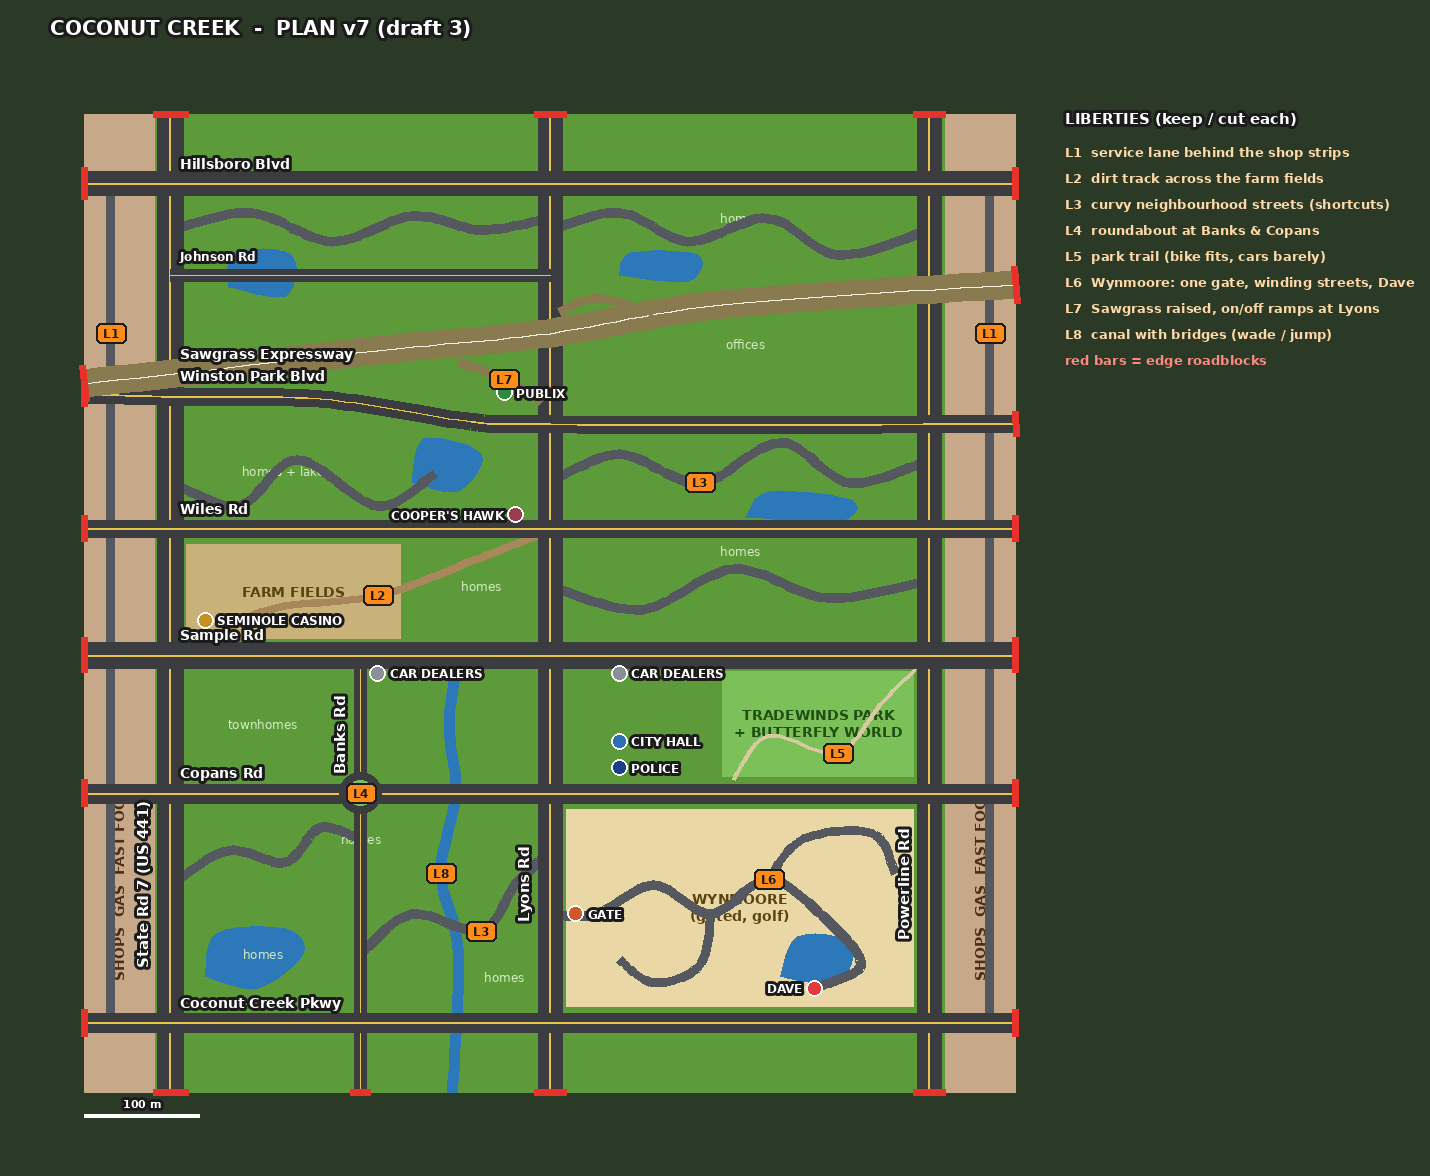
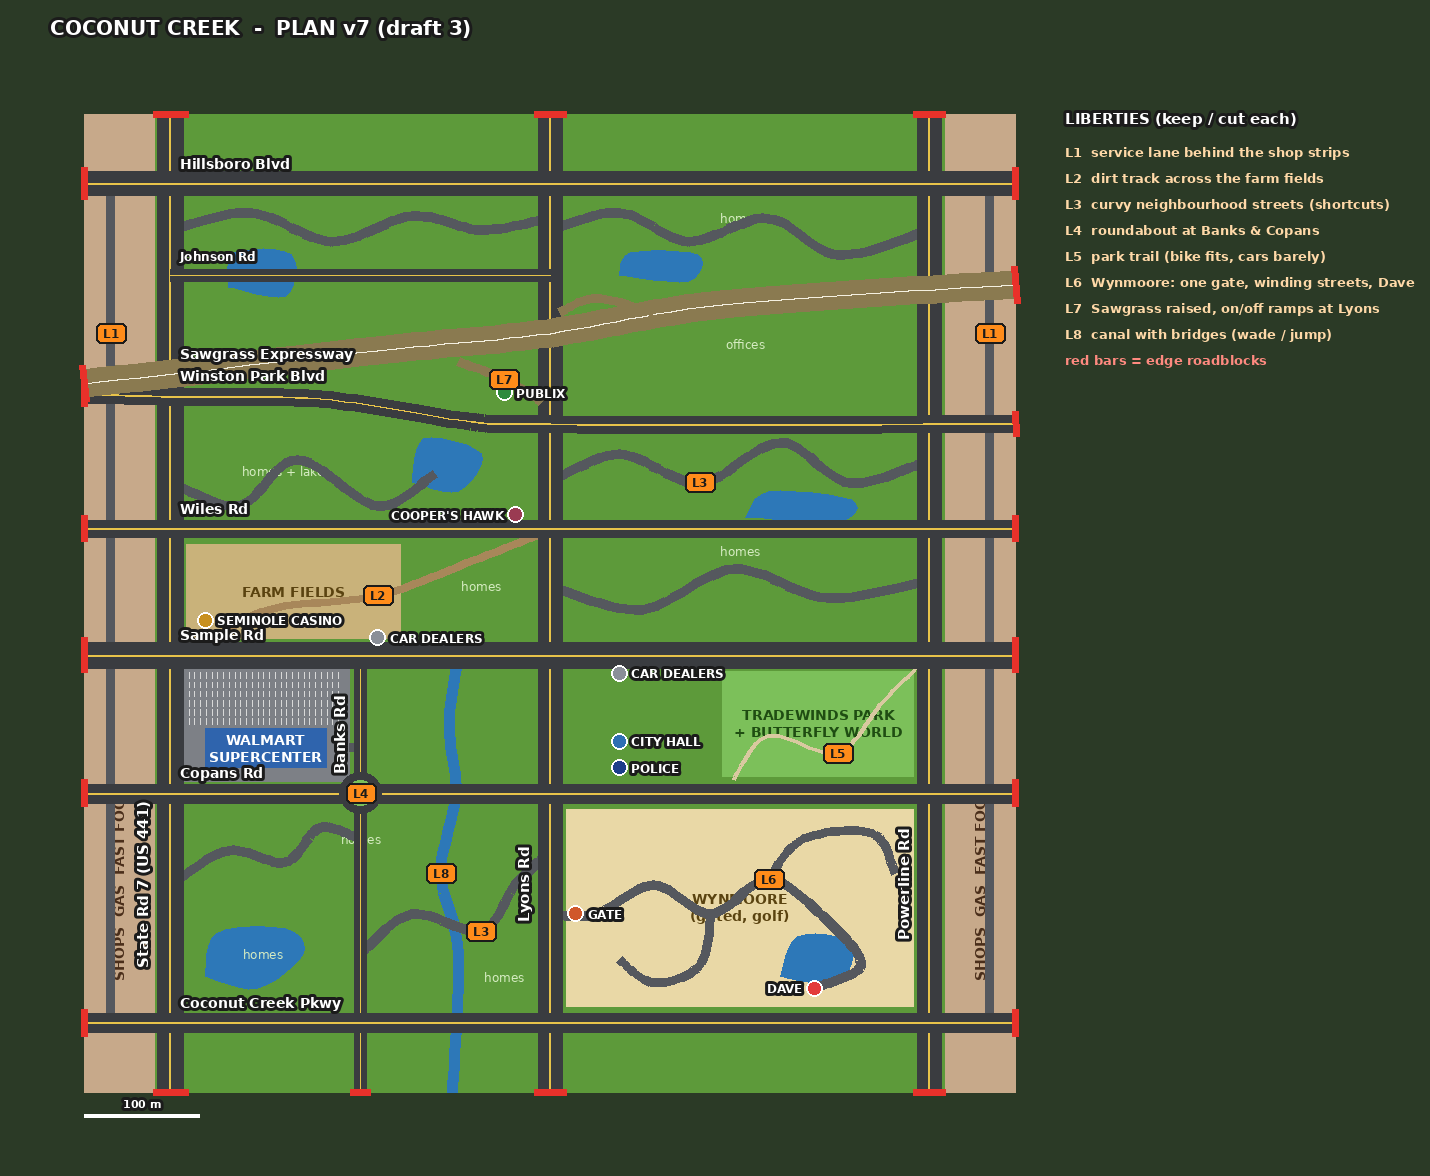
city-clone: plan v7: Super Walmart + giant lot at Sample & 441 (SE corner)
Claude-Session: https://claude.ai/code/session_01QbDoFPGu5z24oXZd8dk3Jx

Changed region(s): [[0.1231, 0.5204, 0.3385, 0.6735]]

diff --git a/city-clone/plan/v7/plan_v7.py b/city-clone/plan/v7/plan_v7.py
@@ -56,10 +56,13 @@ ROADS = [
     ("", curve([(-80, 575), (-40, 560), (-8, 540)]), 8, "ramp"),
     ("", curve([(8, 618), (40, 630), (90, 618)]), 8, "ramp"),
 ]
+ROADS += [("", [(X441, 285), (-320, 285)], 8, "loc"), ("", [(-230, Y["sample"]), (-230, 310)], 8, "loc"), ("", [(-175, 240), (XBANKS, 240)], 8, "loc")]   # Walmart lot entrances (441, Sample, Banks)
 ROUNDABOUTS = [(XBANKS, Y["copans"], 18)]
 # canal (L8): runs north-south between Banks and Lyons from Pkwy to Sample, crossed by bridges on each arterial; you can wade it or jump it on the bike
 CANAL = [(-85, Y["pkwy"] - 60), (-80, 60), (-95, 130), (-82, 200), (-88, 260), (-80, Y["sample"])]
 ZONES = [  # label, polygon, fill, text colour
+    ("", [(-320, 210), (-175, 210), (-175, 310), (-320, 310)], "#7d8086", "#ffffff"),                      # user: Super Walmart, SW corner of Sample & 441, giant parking lot
+    ("WALMART\nSUPERCENTER", [(-300, 222), (-195, 222), (-195, 256), (-300, 256)], "#2f64ad", "#ffffff"),
     ("WYNMOORE\n(gated, golf)", [(14, 14), (316, 14), (316, 186), (14, 186)], "#e9d8a6", "#5a4310"),
     ("FARM FIELDS", [(-316, 334), (-130, 334), (-130, 416), (-316, 416)], "#c9b27a", "#5a4310"),
     ("TRADEWINDS PARK\n+ BUTTERFLY WORLD", [(150, 214), (316, 214), (316, 306), (150, 306)], "#7cc05a", "#1f4d12"),
@@ -70,12 +73,12 @@ LAKES = [[(-300, 40), (-255, 30), (-215, 60), (-230, 82), (-290, 78)], [(-120, 4
          [(60, 650), (120, 645), (128, 668), (70, 670)], [(200, 40), (250, 35), (262, 70), (215, 75)], [(-280, 640), (-230, 632), (-225, 668), (-275, 670)]]
 SPOTS = [  # label, x, y, colour, side
     ("PUBLIX", -40, 548, "#2e8b3e", 1), ("POLICE", 60, 222, "#1d3f8a", 1), ("CITY HALL", 60, 245, "#2f6fb3", 1),
-    ("SEMINOLE CASINO", -300, 350, "#c8901e", 1), ("CAR DEALERS", -150, 304, "#8a8f98", 1), ("CAR DEALERS", 60, 304, "#8a8f98", 1),
+    ("SEMINOLE CASINO", -300, 350, "#c8901e", 1), ("CAR DEALERS", -150, 335, "#8a8f98", 1), ("CAR DEALERS", 60, 304, "#8a8f98", 1),
     ("COOPER'S HAWK", -30, 442, "#9a3b52", -1), ("GATE", 22, 95, "#d0582a", 1), ("DAVE", 230, 30, "#e33b3b", -1),
 ]
 TAGS = [("L1", X441 - 52, 600), ("L1", XPOWER + 52, 600), ("L2", -150, 372), ("L3", -60, 80), ("L3", 130, 470), ("L4", XBANKS, Y["copans"]), ("L5", 250, 235),
         ("L6", 190, 125), ("L7", -40, 560), ("L8", -95, 130)]
-RES = [("homes + lakes", -230, 480), ("homes", 165, 410), ("homes", -60, 380), ("homes", -250, 60), ("homes", -40, 40), ("homes", 165, 700), ("townhomes", -250, 260), ("offices", 170, 590), ("homes", -165, 160)]
+RES = [("homes + lakes", -230, 480), ("homes", 165, 410), ("homes", -60, 380), ("homes", -250, 60), ("homes", -40, 40), ("homes", 165, 700), ("offices", 170, 590), ("homes", -165, 160)]
 LEGEND = ["L1  service lane behind the shop strips", "L2  dirt track across the farm fields", "L3  curvy neighbourhood streets (shortcuts)", "L4  roundabout at Banks & Copans",
           "L5  park trail (bike fits, cars barely)", "L6  Wynmoore: one gate, winding streets, Dave", "L7  Sawgrass raised, on/off ramps at Lyons", "L8  canal with bridges (wade / jump)", "red bars = edge roadblocks"]
 
@@ -94,6 +97,9 @@ for (lab, poly, col, tc) in ZONES:
         t = Image.new("RGBA", (500, 30), (0, 0, 0, 0)); ImageDraw.Draw(t).text((250, 15), lab, fill=tc, font=font(14), anchor="mm"); t = t.rotate(90, expand=True)
         a, b = P(cx, 120); im.paste(t, (int(a - 15), int(b - 250)), t)
     else: d.multiline_text(P(cx, cy), lab, fill=tc, font=font(14), anchor="mm", align="center")
+for row in range(6):                                          # Walmart parking rows
+    yy = 262 + row * 8
+    for xx in range(-314, -180, 5): d.line([P(xx, yy - 2.5), P(xx, yy + 2.5)], fill="#d8d8d8", width=1)
 for L in LAKES: d.polygon([P(*p) for p in curve(L + L[:1], 6)], fill="#2d78b8")
 d.line([P(*p) for p in curve(CANAL)], fill="#2d78b8", width=int(10 * S))
 for (lab, x, y) in RES: d.text(P(x, y), lab, fill="#d6ecc2", font=font(12, False), anchor="mm")
